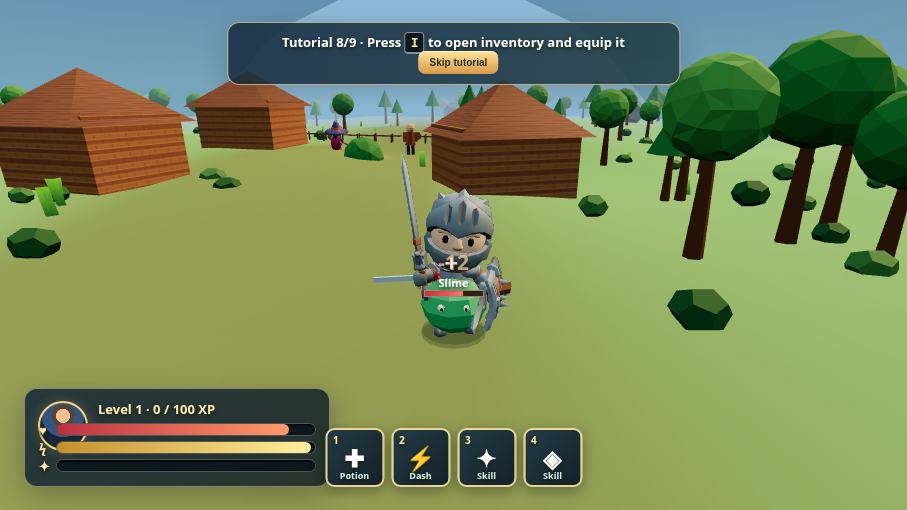
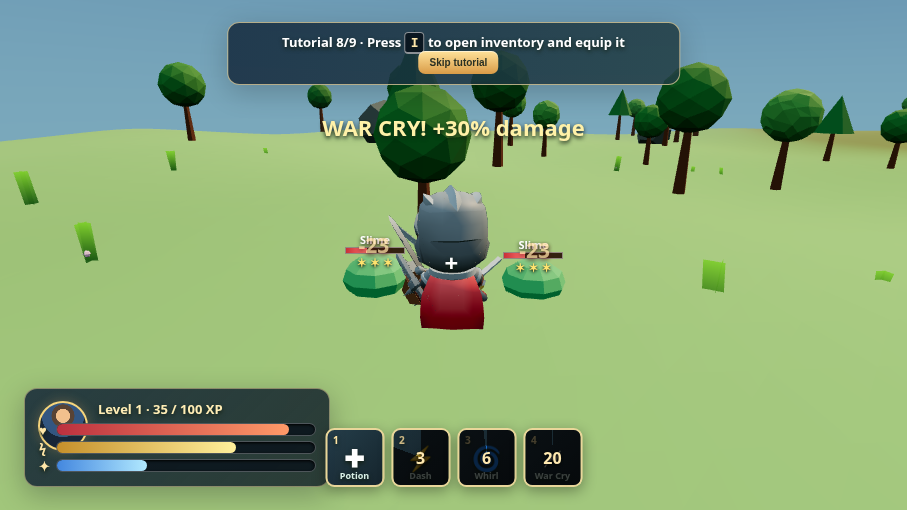
qa: M2 proof section and refreshed screenshots

diff --git a/qa/M1_PROOF.md b/qa/M1_PROOF.md
@@ -28,3 +28,28 @@ All tests ran against `dist` on the isolated local port `8701`, using `/usr/bin/
 - [Inventory — 907×510](screenshots/inventory-907.png)
 - [Combat — 907×510](screenshots/combat-907.png)
 - [Emerald Vale — 1920×1080](screenshots/world-1920.png)
+
+---
+
+# Milestone 2 — combat depth (appended proof)
+
+## Delivered
+
+- **Hotbar skills** (event.code keys): `Digit2` Dash — 6m/0.25s burst with i-frames, 25 stamina, 3s CD, motion-streak particles + whoosh; `Digit3` Whirlwind — 360° spin (fast player rotation + expanding slash ring), 1.5× weapon damage to all mobs within 3m, 6s CD; `Digit4` War Cry — +30% damage for 8s, staggers mobs within 8m for 1.2s, golden pulse ring, 20s CD. Hotbar slots show conic-gradient darkened cooldown overlay with countdown number and a greyed disabled state when stamina is insufficient.
+- **Combat feel**: 60ms hit-stop on every melee hit, camera shake when the player is hit, 0.8m mob knockback, per-weapon combo damage (Iron Sword 8/10/14; bigger 3rd swing), blocking caps hits at 3 damage with shield-spark particles.
+- **Stagger**: 3rd combo hit and War Cry stop mob AI for 1.2s with ✶✶✶ dizzy stars above the nameplate.
+- **Alpha Wolf boss** in a cleared far grove at (-40,-70): 3× wolf scale, 400 HP, telegraphed lunge (0.8s crouch → 8m dash) and howl summon (head-up + ring, spawns 2 wolves, ≤4 summons alive), top-screen boss HP bar within 25m, drops 5 coins + legendary **Fang Blade** (12/15/21), 200 XP, victory toast + `happytime()`, 120s respawn.
+- **Debug hooks extended**: `castSkill(n)`, `spawnBoss()`, `spawnMobAt(type,x,z)`, and `getState()` now exposes `cooldowns`, `buffs`, `iframes`, `loot`, and `boss {hp, dead, telegraph, dist}`.
+
+## Required production-build verification (sequential, shared port 8701)
+
+| Command | Exit code | Evidence |
+| --- | ---: | --- |
+| `npm run build` | 0 | bundled production build (644.2kb JS), dist 13M < 20MB |
+| `node tests/e2e.mjs` | 0 | all M1 checks + M2: dash ≥4m with i-frames & cooldown, whirlwind damages 2 mobs at once, War Cry buff raises whirlwind damage to ≤13 HP remaining (−23 vs −18 unbuffed), boss exists at 400 HP, telegraphs lunge/howl, drops Fang Blade + ≥5 coins, Fang Blade picked up into inventory |
+| `node tests/viewport.mjs` | 0 | all 10 viewport dimensions, canvas coverage ≥98% |
+| `node tests/soak.mjs` | 0 | 120s accelerated simulation ≥30fps, particles ≤64, entities bounded |
+
+## Screenshots
+
+- [Combat with War Cry + Whirlwind, cooldown UI, stagger stars — 907×510](screenshots/combat-907.png)
